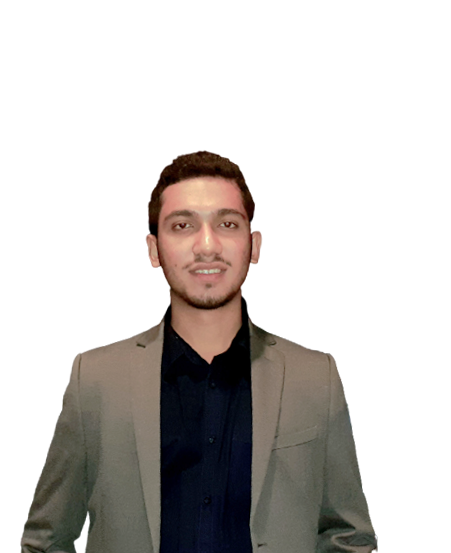
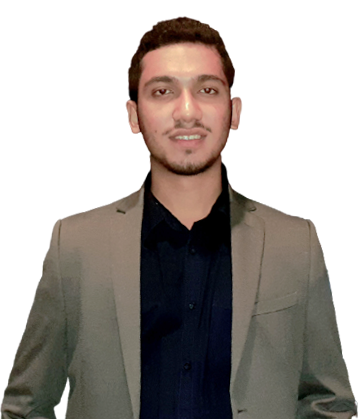
new code uploaded

diff --git a/src/components/Home/Banner/Banner.js b/src/components/Home/Banner/Banner.js
@@ -1,4 +1,4 @@
-import { Container, Grid } from '@material-ui/core';
+import { Box, Container, Grid } from '@material-ui/core';
 import React from 'react';
 import './Banner.css'
 import bannerImg from '../../../images/rakib (2).png'
@@ -9,18 +9,23 @@ import { faDownload } from '@fortawesome/free-solid-svg-icons'
 const Banner = () => {
     return (
         <Container maxWidth="lg" className="banner">
-            <Grid container spacing={3} className="grid-container">
-                <Grid item lg={6}>
-                    <div className="banner-grid-left">
-                        <h3 className="banner-title">Hello! I'm </h3>
-                        <h1 className="banner-name">Rakib</h1>
-                        <p className="banner-text">I am MERN stack web developer</p>
-                        <button className="resume-button">Get Resume  <FontAwesomeIcon icon={faDownload} /></button>
-                    </div>
-                </Grid>
-                <Grid item lg={6} className="banner-grid-right">
-                    <img src={bannerImg} alt="bannerImg" />
-                </Grid>
+            <Grid container className="grid-container">
+                <Box clone order={{ xs: 2, sm: 1 }}>
+                    <Grid item lg={7}>
+                        <div className="banner-grid-left">
+                            <h3 className="banner-title">Hello! I'm </h3>
+                            <h1 className="banner-name">Rakib</h1>
+                            <p className="banner-text">MERN stack web developer</p>
+                            <p className="banner-text">A self motivated web developer. I have a deep interest in Javascript. I developed web applications. My core skills is based on Javascript and I love to solve problems using Javascript.</p>
+                            <button className="resume-button">Get Resume  <FontAwesomeIcon icon={faDownload} /></button>
+                        </div>
+                    </Grid>
+                </Box>
+                <Box clone order={{ xs: 1, sm: 2 }}>
+                    <Grid item lg={5} className="banner-grid-right">
+                        <img src={bannerImg} alt="bannerImg" />
+                    </Grid>
+                </Box>
             </Grid>
         </Container>
     );

diff --git a/src/components/Home/Banner/Banner.css b/src/components/Home/Banner/Banner.css
@@ -1,22 +1,20 @@
-.banner{
-    
+.banner {
+    padding: 10px 0 80px;
 }
-
 .banner-title {
     font-size: 50px;
     color: #fff;
-    margin: 80px 0 5px;
 }
 
 .banner-name{
-    font-size: 80px;
+    font-size: 90px;
     color: #fff;
 }
 
 .banner-text {
     font-size: 18px;
-    margin: 40px 0;
-    color: #858792;
+    margin: 30px 0;
+    color: #f4f4f4;
 }
 
 .resume-button {
@@ -32,6 +30,7 @@
     cursor: pointer;
     transition: 0.4s;
     margin-bottom: 30px;
+    display: none;
 }
 
 .resume-button:hover {
@@ -40,16 +39,26 @@
 
 .grid-container {
     display: flex;
-    justify-content: center;
+    justify-content: space-evenly;
     align-items: center;
     height: 100%;
 }
 
 .banner-grid-left {
-   padding-left: 100px;
+    padding-left: 80px;
+    order: 2;
+}
+.banner-grid-right {
+    order: 1;
 }
 
 .banner-grid-right img{
-    display: flex;
-    align-items: center;
+    height: 450px;
+    object-fit: contain;
+}
+
+@media (max-width: 960px) {
+    .grid-container {
+        flex-direction: column;
+    }
 }

diff --git a/src/components/Home/Navbar/Navbar.js b/src/components/Home/Navbar/Navbar.js
@@ -9,8 +9,8 @@ const Navbar = ({ click }) => {
                 <h2>Rakib</h2>
             </div>
             <ul className="navbar-links">
-                <li><Link to="/">Home</Link></li>
-                <li><Link to="/about">About</Link></li>
+                <li><Link exact to="">Home</Link></li>
+                <li><Link to="#about">About</Link></li>
                 <li><Link to="/projects">Projects</Link></li>
                 <li><Link to="/blog">Blogs</Link></li>
                 <li><Link to="/contact">Contact Me</Link></li>

diff --git a/src/App.js b/src/App.js
@@ -3,7 +3,9 @@ import { BrowserRouter, Route, Switch } from 'react-router-dom';
 import Home from './components/Home/Home/Home';
 import Navbar from './components/Home/Navbar/Navbar';
 import Sidebar from './components/Home/Navbar/Sidebar/Sidebar';
-import Backdrop from './components/Home/Navbar/Backdrop/Backdrop'
+import Backdrop from './components/Home/Navbar/Backdrop/Backdrop';
+
+import './App.css'
 
 const App = () => {
   const [toggleSlide, setToggleSlide] = useState(false)

diff --git a/src/App.css b/src/App.css
@@ -1,0 +1,4 @@
+.text-center {
+    text-align: center;
+    color: #fff;
+}
